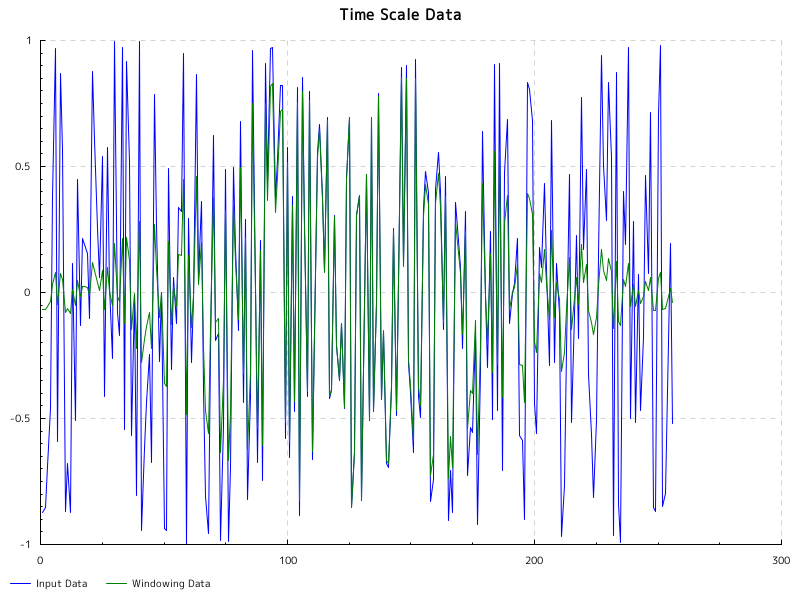
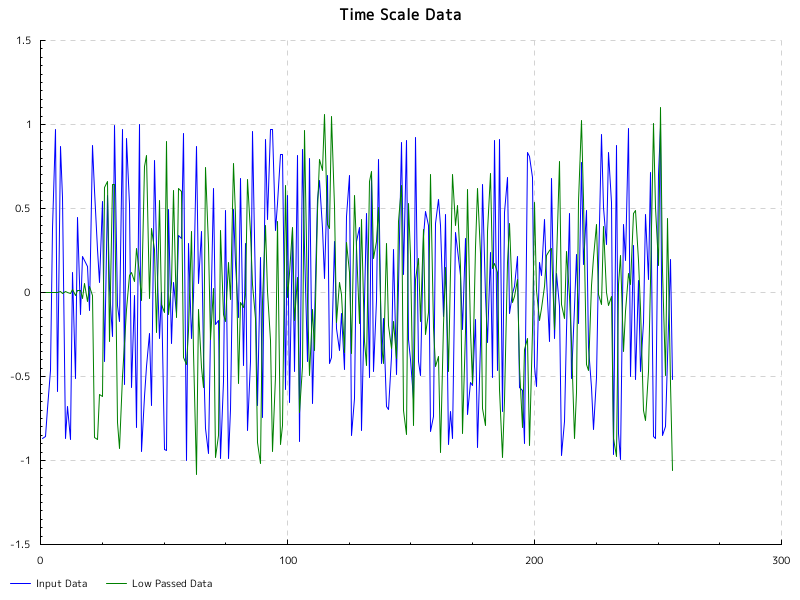
Add Low Pass Filter (wip)

Changed region(s): [[0.0312, 0.09, 0.8438, 0.9], [0.1562, 0.96, 0.2812, 0.99]]

diff --git a/README.md b/README.md
@@ -1,20 +1,14 @@
 # FFT sample program
 
-### Feature
+### Feature (WIP)
 
 1. Generate Random Number (-1 <= n <= 1) ... *1
-1. Windowing of *1 ... *2
+1. Low Pass Filtering of *1 ... *2
 1. DFT of *1 and *2 ... *3
 1. Drawing Chart of *1 ~ *3 to PNG Files
 
 ### Chart
 
 ![Time Scale Chart](01_time_scale.png)
-
-![Frequency Scale Chart](02_frequency_scale.png)
-
-### ToDo
-
-1. Digital Filter
 
 
